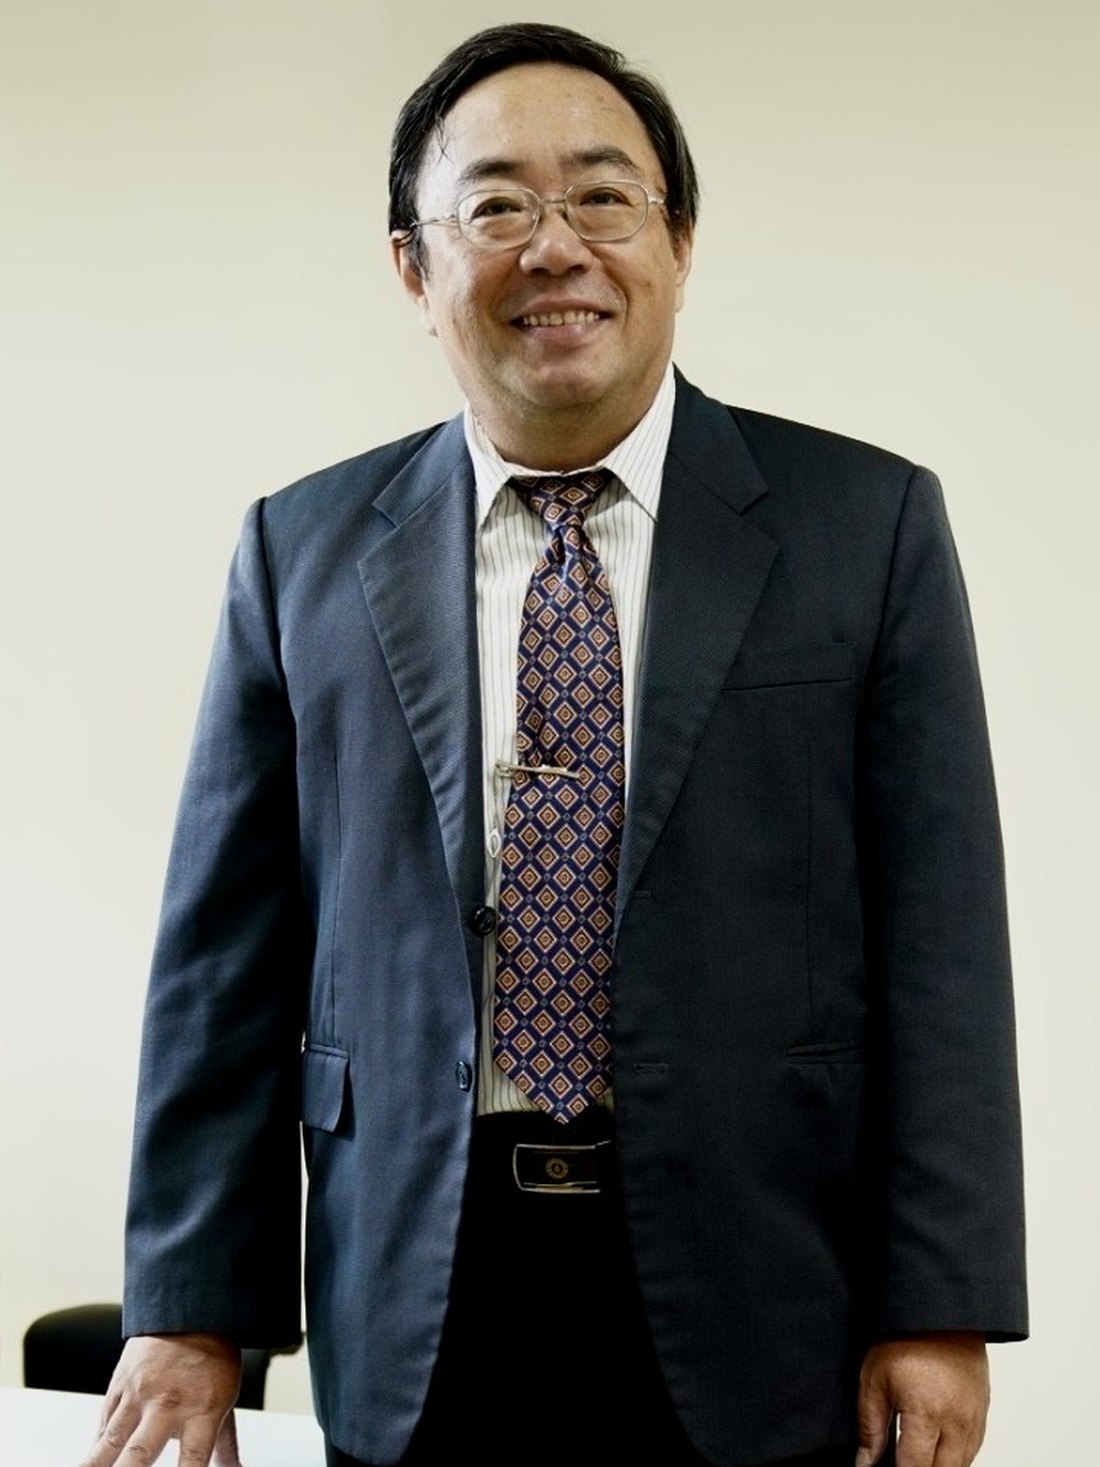
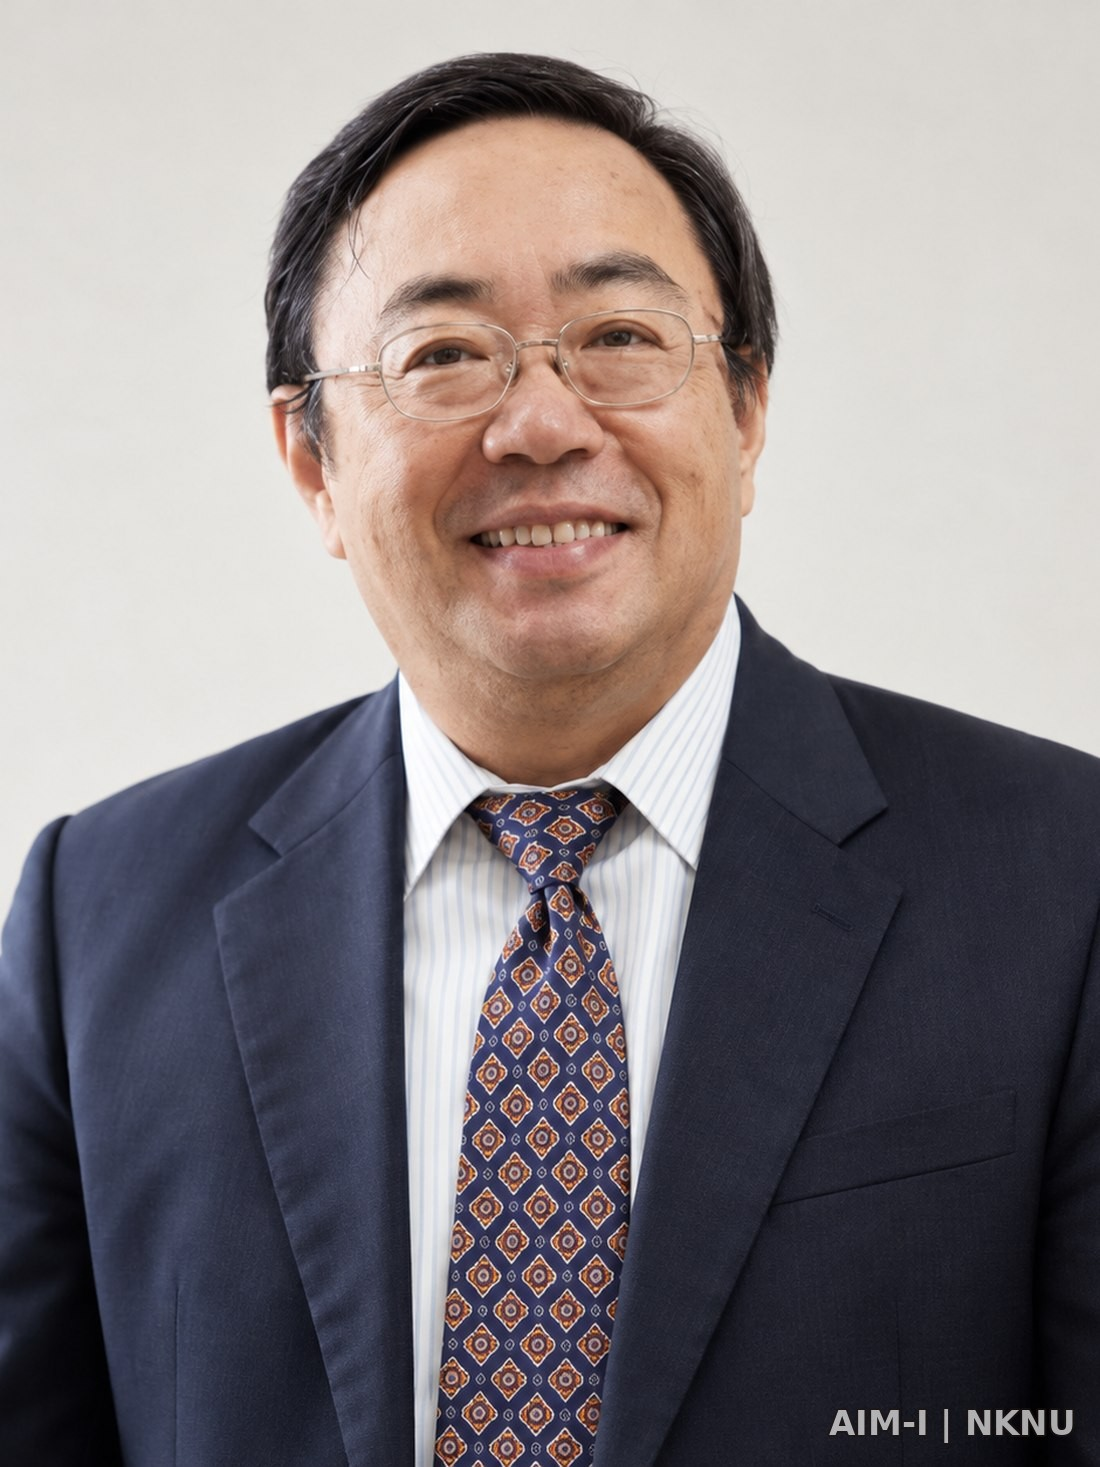
Add files via upload

diff --git a/en-people.html b/en-people.html
@@ -270,6 +270,13 @@ footer{background:linear-gradient(to right,#F5F0E2 0%,#F5F0E2 38%,#6B3A18 55%,rg
   .hamburger,.nav-scrim,.drawer-toggle,.drawer-sub{display:none!important;}
 }
 </style>
+<style id="aimi-image-protect">
+img{-webkit-user-drag:none;-khtml-user-drag:none;-moz-user-drag:none;-o-user-drag:none;user-drag:none;-webkit-touch-callout:none;-webkit-user-select:none;-moz-user-select:none;-ms-user-select:none;user-select:none;}
+</style>
+<script>
+document.addEventListener('contextmenu',function(e){if(e.target&&e.target.tagName==='IMG'){e.preventDefault();}});
+document.addEventListener('dragstart',function(e){if(e.target&&e.target.tagName==='IMG'){e.preventDefault();}});
+</script>
 </head><body style="padding-top:200px;"><div class="topbar"><span>National Kaohsiung Normal University · College of Management</span><div style="display:flex;align-items:center;gap:16px;"><a href="people.html" style="font-size:14px;font-weight:400;color:rgba(255,255,255,.45);letter-spacing:.06em;text-decoration:none;" onmouseover="this.style.color='#D4901C'" onmouseout="this.style.color='rgba(255,255,255,.45)'">繁中</a><span style="color:rgba(255,255,255,.2);">／</span><span style="font-size:14px;font-weight:700;color:#EAD9C8;letter-spacing:.06em;">EN</span><span style="color:rgba(255,255,255,.15);">|</span><a href="https://w3.nknu.edu.tw" target="_blank" style="color:rgba(255,255,255,.45);font-size:13px;text-decoration:none;">NKNU Website</a></div></div>
 <nav>
     <div class="brand" style="display:flex;align-items:center;align-self:center;padding:6px 0;">
@@ -382,7 +389,7 @@ footer{background:linear-gradient(to right,#F5F0E2 0%,#F5F0E2 38%,#6B3A18 55%,rg
     </div>
 
     <div id="faculty-huang" class="faculty-card" style="background:var(--cream,#F5F0E2);border-radius:6px;padding:36px;display:none;grid-template-columns:1fr 1.4fr;gap:48px;align-items:start;">
-      <div class="ph" style="aspect-ratio:3/4;background-color:#edf3e0;"></div>
+      <div class="ph" style="aspect-ratio:3/4;"><img src="images/faculty-huang-manli.jpg" alt="黃曼莉博士" style="width:100%;height:100%;object-fit:cover;display:block;"></div>
       <div>
         <p style="font-size:13px;letter-spacing:.16em;text-transform:uppercase;color:var(--olive);font-weight:700;margin-bottom:8px;font-family:'Iansui',sans-serif;">◆ Assistant Professor and Programme Adviser</p>
         <h3 style="font-family:'Iansui','Noto Serif TC',sans-serif;font-size:clamp(28px,4vw,44px);font-weight:900;color:var(--dark);margin-bottom:6px;">Huang Man-Li,<span style="font-size:.35em;font-weight:500;color:var(--mid);margin-left:8px;">Ph.D.</span></h3>
@@ -443,7 +450,7 @@ footer{background:linear-gradient(to right,#F5F0E2 0%,#F5F0E2 38%,#6B3A18 55%,rg
     </div>
 
     <div id="faculty-yen" class="faculty-card" style="background:var(--cream,#F5F0E2);border-radius:6px;padding:36px;display:none;grid-template-columns:1fr 1.4fr;gap:48px;align-items:start;">
-      <div class="ph" style="aspect-ratio:3/4;background-color:#f0ebf5;"></div>
+      <div class="ph" style="aspect-ratio:3/4;"><img src="images/faculty-yen-szuting.jpg" alt="顏思婷博士" style="width:100%;height:100%;object-fit:cover;display:block;"></div>
       <div>
         <p style="font-size:13px;letter-spacing:.16em;text-transform:uppercase;color:var(--purple);font-weight:700;margin-bottom:8px;font-family:'Iansui',sans-serif;">◆ Assistant Professor</p>
         <h3 style="font-family:'Iansui','Noto Serif TC',sans-serif;font-size:clamp(28px,4vw,44px);font-weight:900;color:var(--dark);margin-bottom:6px;">Yen Szu-Ting,<span style="font-size:.35em;font-weight:500;color:var(--mid);margin-left:8px;">Ph.D.</span></h3>

diff --git a/people.html b/people.html
@@ -270,6 +270,13 @@ footer{background:linear-gradient(to right,#F5F0E2 0%,#F5F0E2 38%,#6B3A18 55%,rg
   .hamburger,.nav-scrim,.drawer-toggle,.drawer-sub{display:none!important;}
 }
 </style>
+<style id="aimi-image-protect">
+img{-webkit-user-drag:none;-khtml-user-drag:none;-moz-user-drag:none;-o-user-drag:none;user-drag:none;-webkit-touch-callout:none;-webkit-user-select:none;-moz-user-select:none;-ms-user-select:none;user-select:none;}
+</style>
+<script>
+document.addEventListener('contextmenu',function(e){if(e.target&&e.target.tagName==='IMG'){e.preventDefault();}});
+document.addEventListener('dragstart',function(e){if(e.target&&e.target.tagName==='IMG'){e.preventDefault();}});
+</script>
 </head><body style="padding-top:260px;"><div class="topbar"><span>國立高雄師範大學 管理學院</span><div style="display:flex;align-items:center;gap:16px;"><span style="font-size:14px;font-weight:700;color:#EAD9C8;letter-spacing:.06em;">繁中</span><span style="color:rgba(255,255,255,.2);">／</span><a href="en-people.html" style="font-size:14px;font-weight:400;color:rgba(255,255,255,.45);letter-spacing:.06em;text-decoration:none;" onmouseover="this.style.color='#D4901C'" onmouseout="this.style.color='rgba(255,255,255,.45)'">EN</a><span style="color:rgba(255,255,255,.15);">|</span><a href="https://w3.nknu.edu.tw" target="_blank" style="color:rgba(255,255,255,.45);font-size:13px;text-decoration:none;">高師大官網</a></div></div>
 <nav>
   <div class="brand" style="display:flex;align-items:center;align-self:center;padding:6px 0;">
@@ -375,7 +382,7 @@ footer{background:linear-gradient(to right,#F5F0E2 0%,#F5F0E2 38%,#6B3A18 55%,rg
     </div>
 
     <div id="faculty-huang" class="faculty-card" style="background:var(--cream,#F5F0E2);border-radius:6px;padding:36px;display:none;grid-template-columns:1fr 1.4fr;gap:48px;align-items:start;">
-      <div class="ph" style="aspect-ratio:3/4;background-color:#edf3e0;"></div>
+      <div class="ph" style="aspect-ratio:3/4;"><img src="images/faculty-huang-manli.jpg" alt="黃曼莉博士" style="width:100%;height:100%;object-fit:cover;display:block;"></div>
       <div>
         <p style="font-size:13px;letter-spacing:.16em;text-transform:uppercase;color:var(--olive);font-weight:700;margin-bottom:8px;font-family:'Iansui',sans-serif;">◆ 助理教授兼專班導師</p>
         <h3 style="font-family:'Iansui','Noto Serif TC',sans-serif;font-size:clamp(28px,4vw,44px);font-weight:900;color:var(--dark);margin-bottom:6px;">黃曼莉<span style="font-size:.35em;font-weight:500;color:var(--mid);margin-left:10px;">博士</span></h3>
@@ -425,7 +432,7 @@ footer{background:linear-gradient(to right,#F5F0E2 0%,#F5F0E2 38%,#6B3A18 55%,rg
     </div>
 
     <div id="faculty-yen" class="faculty-card" style="background:var(--cream,#F5F0E2);border-radius:6px;padding:36px;display:none;grid-template-columns:1fr 1.4fr;gap:48px;align-items:start;">
-      <div class="ph" style="aspect-ratio:3/4;background-color:#f0ebf5;"></div>
+      <div class="ph" style="aspect-ratio:3/4;"><img src="images/faculty-yen-szuting.jpg" alt="顏思婷博士" style="width:100%;height:100%;object-fit:cover;display:block;"></div>
       <div>
         <p style="font-size:13px;letter-spacing:.16em;text-transform:uppercase;color:var(--purple);font-weight:700;margin-bottom:8px;font-family:'Iansui',sans-serif;">◆ 助理教授</p>
         <h3 style="font-family:'Iansui','Noto Serif TC',sans-serif;font-size:clamp(28px,4vw,44px);font-weight:900;color:var(--dark);margin-bottom:6px;">顏思婷<span style="font-size:.35em;font-weight:500;color:var(--mid);margin-left:10px;">博士</span></h3>

diff --git a/about.html b/about.html
@@ -279,6 +279,13 @@ footer{background:linear-gradient(to right,#F5F0E2 0%,#F5F0E2 38%,#6B3A18 55%,rg
   .hamburger,.nav-scrim,.drawer-toggle,.drawer-sub{display:none!important;}
 }
 </style>
+<style id="aimi-image-protect">
+img{-webkit-user-drag:none;-khtml-user-drag:none;-moz-user-drag:none;-o-user-drag:none;user-drag:none;-webkit-touch-callout:none;-webkit-user-select:none;-moz-user-select:none;-ms-user-select:none;user-select:none;}
+</style>
+<script>
+document.addEventListener('contextmenu',function(e){if(e.target&&e.target.tagName==='IMG'){e.preventDefault();}});
+document.addEventListener('dragstart',function(e){if(e.target&&e.target.tagName==='IMG'){e.preventDefault();}});
+</script>
 </head><body><div class="topbar"><span>國立高雄師範大學 管理學院</span><div style="display:flex;align-items:center;gap:16px;"><span style="font-size:14px;font-weight:700;color:#EAD9C8;letter-spacing:.06em;">繁中</span><span style="color:rgba(255,255,255,.2);">／</span><a href="en-about.html" style="font-size:14px;font-weight:400;color:rgba(255,255,255,.45);letter-spacing:.06em;text-decoration:none;" onmouseover="this.style.color='#D4901C'" onmouseout="this.style.color='rgba(255,255,255,.45)'">EN</a><span style="color:rgba(255,255,255,.15);">|</span><a href="https://w3.nknu.edu.tw" target="_blank" style="color:rgba(255,255,255,.45);font-size:13px;text-decoration:none;" onmouseover="this.style.color='#EAD9C8'" onmouseout="this.style.color='rgba(255,255,255,.45)'">高師大官網</a></div></div>
 <nav>
   <div class="brand" style="display:flex;align-items:center;align-self:center;padding:6px 0;">

diff --git a/en-about.html b/en-about.html
@@ -269,6 +269,13 @@ footer{background:linear-gradient(to right,#F5F0E2 0%,#F5F0E2 38%,#6B3A18 55%,rg
   .hamburger,.nav-scrim,.drawer-toggle,.drawer-sub{display:none!important;}
 }
 </style>
+<style id="aimi-image-protect">
+img{-webkit-user-drag:none;-khtml-user-drag:none;-moz-user-drag:none;-o-user-drag:none;user-drag:none;-webkit-touch-callout:none;-webkit-user-select:none;-moz-user-select:none;-ms-user-select:none;user-select:none;}
+</style>
+<script>
+document.addEventListener('contextmenu',function(e){if(e.target&&e.target.tagName==='IMG'){e.preventDefault();}});
+document.addEventListener('dragstart',function(e){if(e.target&&e.target.tagName==='IMG'){e.preventDefault();}});
+</script>
 </head><body style="padding-top:200px;"><div class="topbar"><span>National Kaohsiung Normal University · College of Management</span><div style="display:flex;align-items:center;gap:16px;"><a href="about.html" style="font-size:14px;font-weight:400;color:rgba(255,255,255,.45);letter-spacing:.06em;text-decoration:none;" onmouseover="this.style.color='#D4901C'" onmouseout="this.style.color='rgba(255,255,255,.45)'">繁中</a><span style="color:rgba(255,255,255,.2);">／</span><span style="font-size:14px;font-weight:700;color:#EAD9C8;letter-spacing:.06em;">EN</span><span style="color:rgba(255,255,255,.15);">|</span><a href="https://w3.nknu.edu.tw" target="_blank" style="color:rgba(255,255,255,.45);font-size:13px;text-decoration:none;">NKNU Website</a></div></div>
 <nav>
     <div class="brand" style="display:flex;align-items:center;align-self:center;padding:6px 0;">

diff --git a/en-apply.html b/en-apply.html
@@ -267,6 +267,13 @@ footer{background:linear-gradient(to right,#F5F0E2 0%,#F5F0E2 38%,#6B3A18 55%,rg
   .hamburger,.nav-scrim,.drawer-toggle,.drawer-sub{display:none!important;}
 }
 </style>
+<style id="aimi-image-protect">
+img{-webkit-user-drag:none;-khtml-user-drag:none;-moz-user-drag:none;-o-user-drag:none;user-drag:none;-webkit-touch-callout:none;-webkit-user-select:none;-moz-user-select:none;-ms-user-select:none;user-select:none;}
+</style>
+<script>
+document.addEventListener('contextmenu',function(e){if(e.target&&e.target.tagName==='IMG'){e.preventDefault();}});
+document.addEventListener('dragstart',function(e){if(e.target&&e.target.tagName==='IMG'){e.preventDefault();}});
+</script>
 </head><body style="padding-top:200px;"><div class="topbar"><span>National Kaohsiung Normal University · College of Management</span><div style="display:flex;align-items:center;gap:16px;"><a href="apply.html" style="font-size:14px;font-weight:400;color:rgba(255,255,255,.45);letter-spacing:.06em;text-decoration:none;" onmouseover="this.style.color='#D4901C'" onmouseout="this.style.color='rgba(255,255,255,.45)'">繁中</a><span style="color:rgba(255,255,255,.2);">／</span><span style="font-size:14px;font-weight:700;color:#EAD9C8;letter-spacing:.06em;">EN</span><span style="color:rgba(255,255,255,.15);">|</span><a href="https://w3.nknu.edu.tw" target="_blank" style="color:rgba(255,255,255,.45);font-size:13px;text-decoration:none;">NKNU Website</a></div></div>
 <nav>
     <div class="brand" style="display:flex;align-items:center;align-self:center;padding:6px 0;">

diff --git a/en-index.html b/en-index.html
@@ -260,6 +260,13 @@ footer{background:linear-gradient(to right,#F5F0E2 0%,#F5F0E2 38%,#6B3A18 55%,rg
   .hamburger,.nav-scrim,.drawer-toggle,.drawer-sub{display:none!important;}
 }
 </style>
+<style id="aimi-image-protect">
+img{-webkit-user-drag:none;-khtml-user-drag:none;-moz-user-drag:none;-o-user-drag:none;user-drag:none;-webkit-touch-callout:none;-webkit-user-select:none;-moz-user-select:none;-ms-user-select:none;user-select:none;}
+</style>
+<script>
+document.addEventListener('contextmenu',function(e){if(e.target&&e.target.tagName==='IMG'){e.preventDefault();}});
+document.addEventListener('dragstart',function(e){if(e.target&&e.target.tagName==='IMG'){e.preventDefault();}});
+</script>
 </head><body style="padding-top:200px;"><div class="topbar"><span>National Kaohsiung Normal University · College of Management</span><div style="display:flex;align-items:center;gap:16px;"><a href="index.html" style="font-size:14px;font-weight:400;color:rgba(255,255,255,.45);letter-spacing:.06em;text-decoration:none;" onmouseover="this.style.color='#D4901C'" onmouseout="this.style.color='rgba(255,255,255,.45)'">繁中</a><span style="color:rgba(255,255,255,.2);">／</span><span style="font-size:14px;font-weight:700;color:#EAD9C8;letter-spacing:.06em;">EN</span><span style="color:rgba(255,255,255,.15);">|</span><a href="https://w3.nknu.edu.tw" target="_blank" style="color:rgba(255,255,255,.45);font-size:13px;text-decoration:none;">NKNU Website</a></div></div>
 <nav>
     <div class="brand" style="display:flex;align-items:center;align-self:center;padding:6px 0;">

diff --git a/en-learn.html b/en-learn.html
@@ -271,6 +271,13 @@ footer{background:linear-gradient(to right,#F5F0E2 0%,#F5F0E2 38%,#6B3A18 55%,rg
   .hamburger,.nav-scrim,.drawer-toggle,.drawer-sub{display:none!important;}
 }
 </style>
+<style id="aimi-image-protect">
+img{-webkit-user-drag:none;-khtml-user-drag:none;-moz-user-drag:none;-o-user-drag:none;user-drag:none;-webkit-touch-callout:none;-webkit-user-select:none;-moz-user-select:none;-ms-user-select:none;user-select:none;}
+</style>
+<script>
+document.addEventListener('contextmenu',function(e){if(e.target&&e.target.tagName==='IMG'){e.preventDefault();}});
+document.addEventListener('dragstart',function(e){if(e.target&&e.target.tagName==='IMG'){e.preventDefault();}});
+</script>
 </head><body style="padding-top:200px;"><div class="topbar"><span>National Kaohsiung Normal University · College of Management</span><div style="display:flex;align-items:center;gap:16px;"><a href="learn.html" style="font-size:14px;font-weight:400;color:rgba(255,255,255,.45);letter-spacing:.06em;text-decoration:none;" onmouseover="this.style.color='#D4901C'" onmouseout="this.style.color='rgba(255,255,255,.45)'">繁中</a><span style="color:rgba(255,255,255,.2);">／</span><span style="font-size:14px;font-weight:700;color:#EAD9C8;letter-spacing:.06em;">EN</span><span style="color:rgba(255,255,255,.15);">|</span><a href="https://w3.nknu.edu.tw" target="_blank" style="color:rgba(255,255,255,.45);font-size:13px;text-decoration:none;">NKNU Website</a></div></div>
 <nav>
     <div class="brand" style="display:flex;align-items:center;align-self:center;padding:6px 0;">

diff --git a/apply.html b/apply.html
@@ -275,6 +275,13 @@ footer{background:linear-gradient(to right,#F5F0E2 0%,#F5F0E2 38%,#6B3A18 55%,rg
   .hamburger,.nav-scrim,.drawer-toggle,.drawer-sub{display:none!important;}
 }
 </style>
+<style id="aimi-image-protect">
+img{-webkit-user-drag:none;-khtml-user-drag:none;-moz-user-drag:none;-o-user-drag:none;user-drag:none;-webkit-touch-callout:none;-webkit-user-select:none;-moz-user-select:none;-ms-user-select:none;user-select:none;}
+</style>
+<script>
+document.addEventListener('contextmenu',function(e){if(e.target&&e.target.tagName==='IMG'){e.preventDefault();}});
+document.addEventListener('dragstart',function(e){if(e.target&&e.target.tagName==='IMG'){e.preventDefault();}});
+</script>
 </head><body style="padding-top:200px;"><div class="topbar"><span>國立高雄師範大學 管理學院</span><div style="display:flex;align-items:center;gap:16px;"><span style="font-size:14px;font-weight:700;color:#EAD9C8;letter-spacing:.06em;">繁中</span><span style="color:rgba(255,255,255,.2);">／</span><a href="en-apply.html" style="font-size:14px;font-weight:400;color:rgba(255,255,255,.45);letter-spacing:.06em;text-decoration:none;" onmouseover="this.style.color='#D4901C'" onmouseout="this.style.color='rgba(255,255,255,.45)'">EN</a><span style="color:rgba(255,255,255,.15);">|</span><a href="https://w3.nknu.edu.tw" target="_blank" style="color:rgba(255,255,255,.45);font-size:13px;text-decoration:none;">高師大官網</a></div></div>
 <nav>
   <div class="brand" style="display:flex;align-items:center;align-self:center;padding:6px 0;">

diff --git a/index.html b/index.html
@@ -268,6 +268,13 @@ footer{background:linear-gradient(to right,#F5F0E2 0%,#F5F0E2 38%,#6B3A18 55%,rg
   .hamburger,.nav-scrim,.drawer-toggle,.drawer-sub{display:none!important;}
 }
 </style>
+<style id="aimi-image-protect">
+img{-webkit-user-drag:none;-khtml-user-drag:none;-moz-user-drag:none;-o-user-drag:none;user-drag:none;-webkit-touch-callout:none;-webkit-user-select:none;-moz-user-select:none;-ms-user-select:none;user-select:none;}
+</style>
+<script>
+document.addEventListener('contextmenu',function(e){if(e.target&&e.target.tagName==='IMG'){e.preventDefault();}});
+document.addEventListener('dragstart',function(e){if(e.target&&e.target.tagName==='IMG'){e.preventDefault();}});
+</script>
 </head><body style="padding-top:200px;"><div class="topbar"><span>國立高雄師範大學 管理學院</span><div style="display:flex;align-items:center;gap:16px;"><span style="font-size:14px;font-weight:700;color:#EAD9C8;letter-spacing:.06em;">繁中</span><span style="color:rgba(255,255,255,.2);">／</span><a href="en-index.html" style="font-size:14px;font-weight:400;color:rgba(255,255,255,.45);letter-spacing:.06em;text-decoration:none;" onmouseover="this.style.color='#D4901C'" onmouseout="this.style.color='rgba(255,255,255,.45)'">EN</a><span style="color:rgba(255,255,255,.15);">|</span><a href="https://w3.nknu.edu.tw" target="_blank" style="color:rgba(255,255,255,.45);font-size:13px;text-decoration:none;">高師大官網</a></div></div>
 <nav>
   <div class="brand" style="display:flex;align-items:center;align-self:center;padding:6px 0;">

diff --git a/learn.html b/learn.html
@@ -279,6 +279,13 @@ footer{background:linear-gradient(to right,#F5F0E2 0%,#F5F0E2 38%,#6B3A18 55%,rg
   .hamburger,.nav-scrim,.drawer-toggle,.drawer-sub{display:none!important;}
 }
 </style>
+<style id="aimi-image-protect">
+img{-webkit-user-drag:none;-khtml-user-drag:none;-moz-user-drag:none;-o-user-drag:none;user-drag:none;-webkit-touch-callout:none;-webkit-user-select:none;-moz-user-select:none;-ms-user-select:none;user-select:none;}
+</style>
+<script>
+document.addEventListener('contextmenu',function(e){if(e.target&&e.target.tagName==='IMG'){e.preventDefault();}});
+document.addEventListener('dragstart',function(e){if(e.target&&e.target.tagName==='IMG'){e.preventDefault();}});
+</script>
 </head><body style="padding-top:200px;"><div class="topbar"><span>國立高雄師範大學 管理學院</span><div style="display:flex;align-items:center;gap:16px;"><span style="font-size:14px;font-weight:700;color:#EAD9C8;letter-spacing:.06em;">繁中</span><span style="color:rgba(255,255,255,.2);">／</span><a href="en-learn.html" style="font-size:14px;font-weight:400;color:rgba(255,255,255,.45);letter-spacing:.06em;text-decoration:none;" onmouseover="this.style.color='#D4901C'" onmouseout="this.style.color='rgba(255,255,255,.45)'">EN</a><span style="color:rgba(255,255,255,.15);">|</span><a href="https://w3.nknu.edu.tw" target="_blank" style="color:rgba(255,255,255,.45);font-size:13px;text-decoration:none;">高師大官網</a></div></div>
 <nav>
   <div class="brand" style="display:flex;align-items:center;align-self:center;padding:6px 0;">

diff --git a/en-want-apply.html b/en-want-apply.html
@@ -310,6 +310,13 @@ footer{background:linear-gradient(to right,#F5F0E2 0%,#F5F0E2 38%,#6B3A18 55%,rg
   .hamburger,.nav-scrim,.drawer-toggle,.drawer-sub{display:none!important;}
 }
 </style>
+<style id="aimi-image-protect">
+img{-webkit-user-drag:none;-khtml-user-drag:none;-moz-user-drag:none;-o-user-drag:none;user-drag:none;-webkit-touch-callout:none;-webkit-user-select:none;-moz-user-select:none;-ms-user-select:none;user-select:none;}
+</style>
+<script>
+document.addEventListener('contextmenu',function(e){if(e.target&&e.target.tagName==='IMG'){e.preventDefault();}});
+document.addEventListener('dragstart',function(e){if(e.target&&e.target.tagName==='IMG'){e.preventDefault();}});
+</script>
 </head>
 <body style="padding-top:200px;"><div class="topbar"><span>National Kaohsiung Normal University · College of Management</span><div style="display:flex;align-items:center;gap:16px;"><a href="want-apply.html" style="font-size:14px;font-weight:400;color:rgba(255,255,255,.45);letter-spacing:.06em;text-decoration:none;" onmouseover="this.style.color='#D4901C'" onmouseout="this.style.color='rgba(255,255,255,.45)'">繁中</a><span style="color:rgba(255,255,255,.2);">／</span><span style="font-size:14px;font-weight:700;color:#EAD9C8;letter-spacing:.06em;">EN</span><span style="color:rgba(255,255,255,.15);">|</span><a href="https://w3.nknu.edu.tw" target="_blank" style="color:rgba(255,255,255,.45);font-size:13px;text-decoration:none;">NKNU Website</a></div></div>
 <nav>

diff --git a/en-collab.html b/en-collab.html
@@ -275,6 +275,13 @@ footer{background:linear-gradient(to right,#F5F0E2 0%,#F5F0E2 38%,#6B3A18 55%,rg
   .hamburger,.nav-scrim,.drawer-toggle,.drawer-sub{display:none!important;}
 }
 </style>
+<style id="aimi-image-protect">
+img{-webkit-user-drag:none;-khtml-user-drag:none;-moz-user-drag:none;-o-user-drag:none;user-drag:none;-webkit-touch-callout:none;-webkit-user-select:none;-moz-user-select:none;-ms-user-select:none;user-select:none;}
+</style>
+<script>
+document.addEventListener('contextmenu',function(e){if(e.target&&e.target.tagName==='IMG'){e.preventDefault();}});
+document.addEventListener('dragstart',function(e){if(e.target&&e.target.tagName==='IMG'){e.preventDefault();}});
+</script>
 </head>
 <body style="padding-top:200px;">
 <div class="topbar"><span>National Kaohsiung Normal University · College of Management</span><div style="display:flex;align-items:center;gap:16px;"><a href="collab.html" style="font-size:14px;font-weight:400;color:rgba(255,255,255,.45);letter-spacing:.06em;text-decoration:none;" onmouseover="this.style.color='#D4901C'" onmouseout="this.style.color='rgba(255,255,255,.45)'">繁中</a><span style="color:rgba(255,255,255,.2);">／</span><span style="font-size:14px;font-weight:700;color:#EAD9C8;letter-spacing:.06em;">EN</span><span style="color:rgba(255,255,255,.15);">|</span><a href="https://w3.nknu.edu.tw" target="_blank" style="color:rgba(255,255,255,.45);font-size:13px;text-decoration:none;">NKNU Website</a></div></div>
